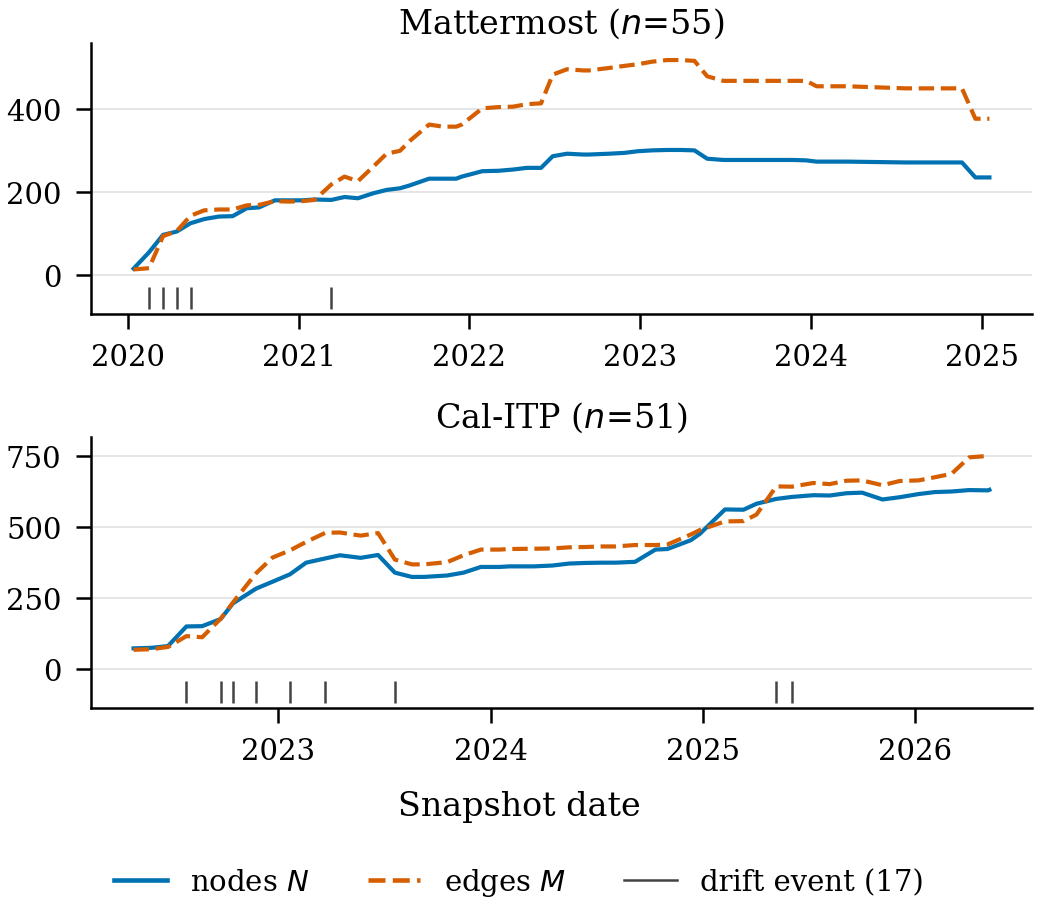
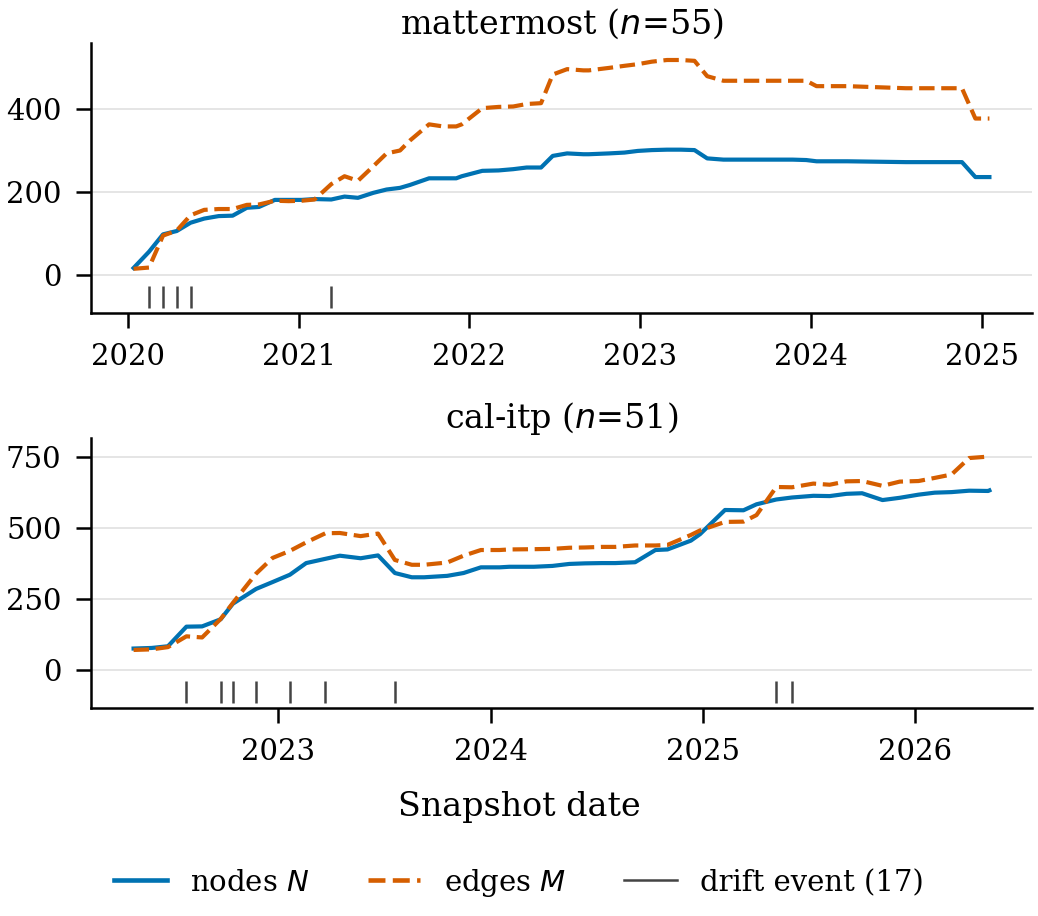
Fix four defects the real 154-project corpus exposed
Running against artifacts/phase_4_corpus/longitudinal rather than a synthetic
stand-in found four things, three of them mine.

The N<=1 guard dropped whole projects. Eight projects had a degenerate
single-node snapshot, and refusing the project to avoid an undefined density
discarded 180 snapshots to sidestep 9 bad values. The guard now drops the
offending snapshots, keeps the project, and reports the count. All 154 projects
load, 3,577 snapshots.

Growth multiples divided by zero. A project whose first snapshot has nodes but
no edges has an undefined multiple, not an infinite one. growth_multiple
returns NaN rather than feeding inf into a median or an axis.

Snapshot gaps span 2 to 1,686 days. On the linear axis the whole distribution
collapsed against the left edge to make room for one outlier, so the gap ECDF
is log scaled above a 30x spread. The omitted-count note also collided with
the worst-gap annotation and is now left-aligned inside the axes.

Panel titles collided. owner/repo does not fit a 1.15in panel, so panel_labels
uses the repo alone where that is unambiguous across the corpus, falls back to
owner/repo where two owners ship the same repo name, and elides the middle so
a truncated name keeps its distinguishing suffix.

The layer contract holds on real data. The four buckets account for N at every
snapshot in all 154 projects, and the figure shows that unclassified dominates
the median project, which is the finding rather than a defect.
[…]

diff --git a/paper/dolap_dataset/make_figures.py b/paper/dolap_dataset/make_figures.py
@@ -176,7 +176,7 @@ def discover_projects(corpus_dir):
             f"No longitudinal_*.csv under {corpus_dir}. Point --corpus at the "
             f"directory the extraction writes."
         )
-    frames, skipped = {}, []
+    frames, skipped, dropped_snapshots = {}, [], []
     for path in paths:
         project = path.stem[len("longitudinal_"):]
         df = pd.read_csv(path)
@@ -192,14 +192,28 @@ def discover_projects(corpus_dir):
         if df[["N", "M"]].isna().any().any():
             skipped.append((project, "missing N or M"))
             continue
-        if (df["N"] <= 1).any():
-            skipped.append((project, "a snapshot has N <= 1, density is undefined"))
-            continue
+        degenerate = int((df["N"] <= 1).sum())
+        if degenerate:
+            # A one-node snapshot has no graph to describe and an undefined
+            # density. Drop those rows, not the project: on this corpus the
+            # whole-project rule discarded 180 snapshots to avoid 9 bad values.
+            df = df[df["N"] > 1].reset_index(drop=True)
+            dropped_snapshots.append((project, degenerate))
+            if len(df) < MIN_SNAPSHOTS:
+                skipped.append(
+                    (project, f"{len(df)} snapshots left after dropping "
+                              f"{degenerate} with N <= 1")
+                )
+                continue
         frames[project] = df
     if not frames:
         raise SystemExit(f"Every project under {corpus_dir} was skipped: {skipped}")
     # Largest first, so the small-multiples grid reads in a meaningful order.
     ordered = sorted(frames, key=lambda p: (-len(frames[p]), p))
+    if dropped_snapshots:
+        total = sum(n for _, n in dropped_snapshots)
+        print(f"  dropped {total} degenerate snapshot(s) with N <= 1 across "
+              f"{len(dropped_snapshots)} project(s), projects retained")
     return {p: frames[p] for p in ordered}, skipped
 
 
@@ -216,6 +230,29 @@ def label_of(project):
         owner, _, repo = project.partition("__")
         return f"{owner}/{repo}"
     return project.replace("_", " ")
+
+
+def panel_labels(projects, max_chars=17):
+    """Short titles for small-multiple panels.
+
+    Full owner/repo does not fit a 1.15in panel and the titles collide. Use the
+    repo alone where that is unambiguous across the corpus, fall back to
+    owner/repo where two owners ship the same repo name, and elide the middle
+    rather than the tail so a truncated name keeps its distinguishing suffix.
+    """
+    repos = {}
+    for project in projects:
+        repo = project.partition("__")[2] if "__" in project else project
+        repos.setdefault(repo, []).append(project)
+    out = {}
+    for project in projects:
+        repo = project.partition("__")[2] if "__" in project else project
+        text = label_of(project) if len(repos[repo]) > 1 else repo
+        if len(text) > max_chars:
+            keep = max_chars - 1
+            text = text[: keep // 2] + "\u2026" + text[-(keep - keep // 2):]
+        out[project] = text
+    return out
 
 
 def descriptor_fields(frames, also_exclude=()):
@@ -489,6 +526,16 @@ def relative_years(df):
     return (df["date"] - df["date"].iloc[0]).dt.days.values / 365.25
 
 
+def growth_multiple(series):
+    """Last over first, or NaN when the first value is zero.
+
+    A project whose first snapshot has no edges has an undefined multiple, not
+    an infinite one, and feeding inf into a median or an axis is worse than a gap.
+    """
+    first, last = float(series.iloc[0]), float(series.iloc[-1])
+    return last / first if first > 0 else float("nan")
+
+
 # --------------------------------------------------------------------------
 # Figures
 # --------------------------------------------------------------------------
@@ -507,6 +554,7 @@ def fig_growth_trajectories(frames, drift, fig_dir, max_panels=MAX_PANELS):
     fig, axes = plt.subplots(nrows, ncols, figsize=figsize, squeeze=False)
     flat = axes.ravel()
     compact = n > 3
+    titles = panel_labels(list(frames))
 
     for ax, (project, df) in zip(flat, frames.items()):
         for col in ("N", "M"):
@@ -520,8 +568,8 @@ def fig_growth_trajectories(frames, drift, fig_dir, max_panels=MAX_PANELS):
         ax.grid(axis="y")
         ax.tick_params(labelsize=6 if compact else 7)
         ax.set_title(
-            f"{label_of(project)} ($n$={len(df)})",
-            fontsize=6.8 if compact else 8, pad=2.5,
+            f"{titles[project]} ($n$={len(df)})",
+            fontsize=6.2 if compact else 8, pad=2.5,
         )
         # Drift events as a rug in the gutter reserved below zero.
         dates = drift_dates(drift, project)
@@ -564,7 +612,10 @@ def fig_growth_normalized(frames, fig_dir):
         curves = []
         for i, (project, df) in enumerate(frames.items()):
             years = relative_years(df)
-            rel = df[metric].values / float(df[metric].iloc[0])
+            base = float(df[metric].iloc[0])
+            if base <= 0:
+                continue
+            rel = df[metric].values / base
             curves.append((years, rel))
             ax.plot(
                 years, rel,
@@ -709,7 +760,10 @@ def fig_snapshot_cadence(frames, fig_dir, max_panels=MAX_PANELS):
     ax.set_xlabel("Snapshot date", labelpad=1)
     note = omitted_note(omitted, total)
     if note:
-        ax.set_title(note, fontsize=6.5, color="#333333", pad=3)
+        # Left-aligned inside the axes. As a centred title it collided with the
+        # worst-gap annotation, which is also placed along the top.
+        ax.text(0.0, 1.01, note, transform=ax.transAxes, fontsize=6.5,
+                color="#333333", ha="left", va="bottom")
 
     worst_project, worst_gap, worst_at = None, -1.0, None
     for project, df in frames.items():
@@ -758,8 +812,13 @@ def fig_snapshot_cadence(frames, fig_dir, max_panels=MAX_PANELS):
     ax.set_xlabel("Days between consecutive snapshots")
     ax.set_ylabel("ECDF")
     ax.set_ylim(0, 1.0)
+    # Gaps span 2 days to 1686. On a linear axis the whole distribution collapses
+    # against the left edge to make room for one outlier.
+    if max(pooled) / max(1.0, min(pooled)) > 30:
+        ax.set_xscale("log")
+        plain_log_ticks(ax.xaxis, [3, 10, 30, 100, 300, 1000])
     ax.grid(axis="y")
-    ax.legend(loc="lower right", handlelength=1.6, borderaxespad=0.2)
+    ax.legend(loc="upper left", handlelength=1.6, borderaxespad=0.2)
 
     panel_tag(axes[0], "(a)")
     panel_tag(axes[1], "(b)")
@@ -924,6 +983,7 @@ def fig_layer_composition(frames, cols, fig_dir, max_panels=MAX_PANELS):
     fig, axes = plt.subplots(nrows, ncols, figsize=figsize, squeeze=False)
     flat = axes.ravel()
     compact = n > 3
+    titles = panel_labels(list(frames))
     names = [c.replace(LAYER_PREFIX, "").replace("n_", "") for c in cols]
 
     for ax, (project, df) in zip(flat, frames.items()):
@@ -937,7 +997,7 @@ def fig_layer_composition(frames, cols, fig_dir, max_panels=MAX_PANELS):
         )
         ax.set_ylim(0, 1)
         ax.set_yticks([0, 0.5, 1.0])
-        ax.set_title(label_of(project), fontsize=6.8 if compact else 8, pad=2.5)
+        ax.set_title(titles[project], fontsize=6.2 if compact else 8, pad=2.5)
         ax.tick_params(labelsize=6 if compact else 7)
         year_axis(ax, compact=compact)
 
@@ -1028,7 +1088,7 @@ def fig_degree_distribution(frames, paths, fig_dir, max_panels=MAX_PANELS):
                     markersize=1.8, linewidth=0.8, label=when)
         ax.set_xscale("log")
         ax.set_yscale("log")
-        ax.set_title(label_of(project), fontsize=7, pad=2.5)
+        ax.set_title(panel_labels(list(usable))[project], fontsize=6.5, pad=2.5)
         ax.tick_params(labelsize=6)
         ax.grid(which="major", alpha=0.25)
 
@@ -1101,8 +1161,8 @@ def table_dataset_characterization(frames, drift, tab_dir, max_rows):
                 "edges_last": int(df["M"].iloc[-1]),
                 "edges_min": int(df["M"].min()),
                 "edges_max": int(df["M"].max()),
-                "node_growth_multiple": round(df["N"].iloc[-1] / df["N"].iloc[0], 2),
-                "edge_growth_multiple": round(df["M"].iloc[-1] / df["M"].iloc[0], 2),
+                "node_growth_multiple": round(growth_multiple(df["N"]), 2),
+                "edge_growth_multiple": round(growth_multiple(df["M"]), 2),
                 "net_contraction_from_peak_pct": round(
                     100.0 * (1.0 - df["N"].iloc[-1] / df["N"].max()), 1
                 ),
